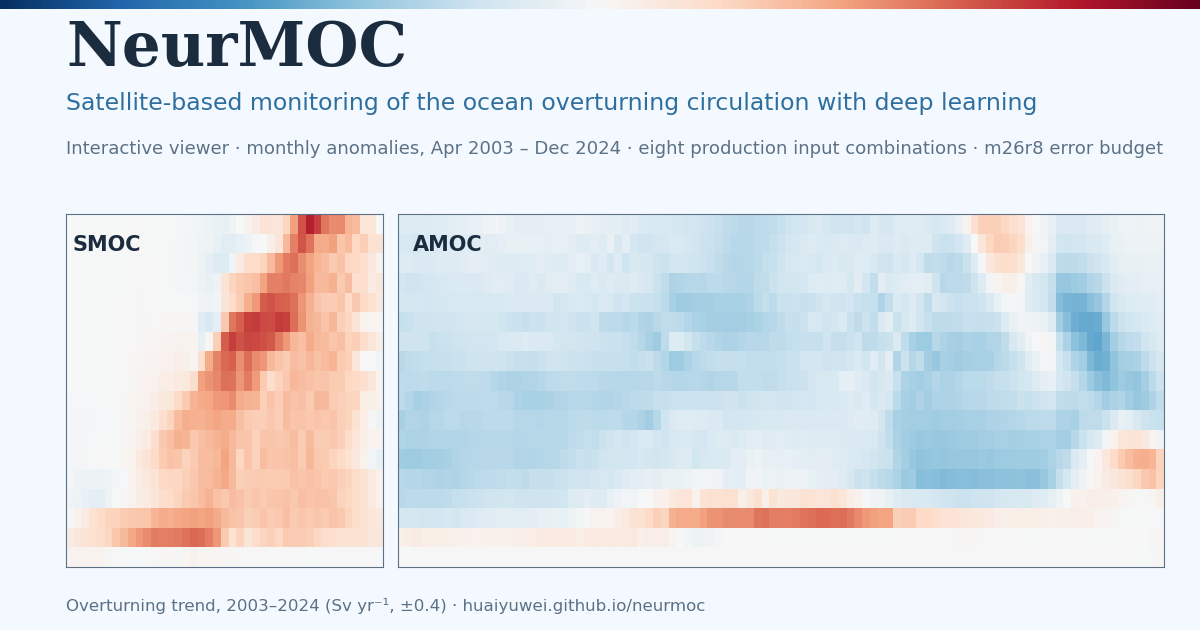
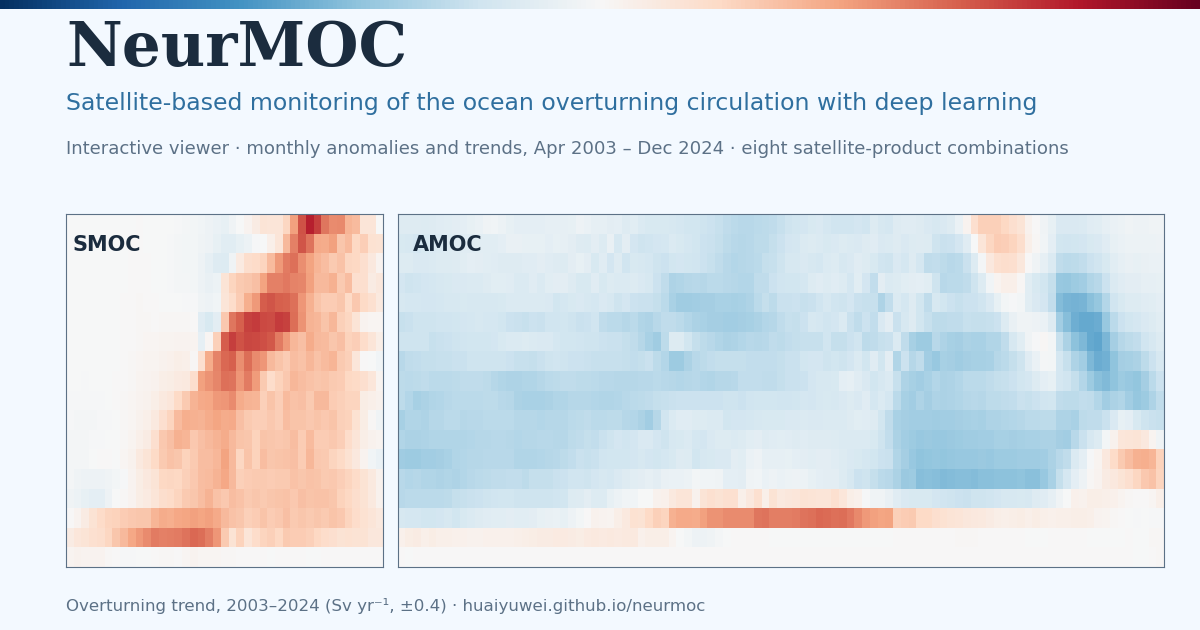
Preview image caption without the internal run tag

Changed region(s): [[0.3392, 0.2111, 0.9867, 0.2714]]

diff --git a/neurmoc/make_og_image.py b/neurmoc/make_og_image.py
@@ -39,7 +39,6 @@ pretty_period = (
     f"{datetime.strptime(last_month, '%Y-%m').strftime('%b %Y')}"
 )
 trend_years = f"{first_month[:4]}–{last_month[:4]}"
-run_id = meta["metadata"]["run_id"]
 
 fig = plt.figure(figsize=(12, 6.3), dpi=100)
 fig.patch.set_facecolor(BG)
@@ -57,8 +56,8 @@ fig.text(0.055, 0.825,
          "with deep learning",
          fontsize=17, color=ACCENT)
 fig.text(0.055, 0.755,
-         f"Interactive viewer · monthly anomalies, {pretty_period} "
-         f"· eight production input combinations · {run_id} error budget",
+         f"Interactive viewer · monthly anomalies and trends, {pretty_period} "
+         "· eight satellite-product combinations",
          fontsize=13, color=MUTED)
 
 # the trend map, split into SMOC | AMOC like the viewer
